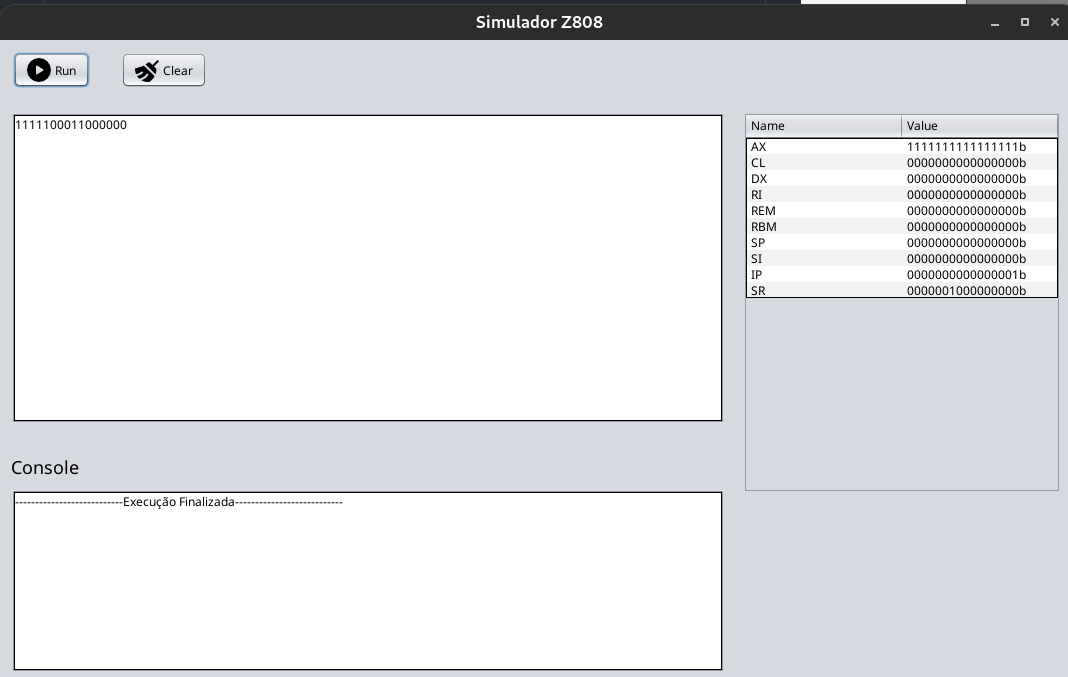
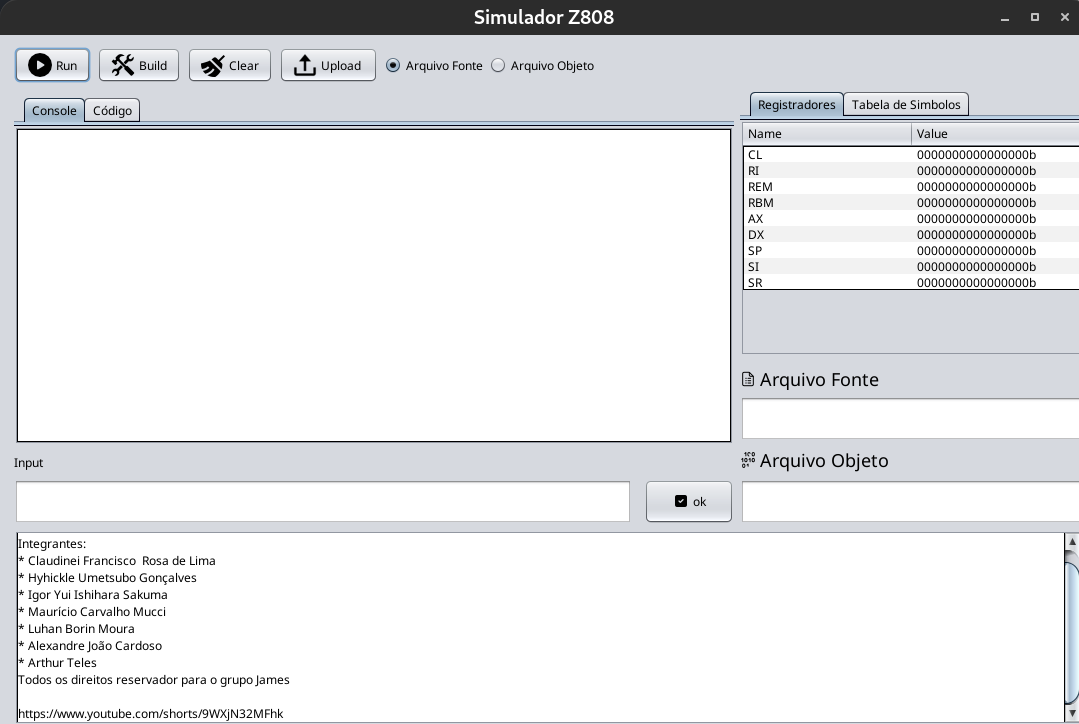
update: README

Changed region(s): [[0.0, 0.0, 1.0, 1.0]]

diff --git a/README.md b/README.md
@@ -7,7 +7,7 @@
 * Para mais especificações sobre o trabalho, olhar a seguinte pasta: _Docs_
 * Integrantes: Alexandre Cardoso, Arthur Teles, Claudinei Lima, Igor Sakuma, Hyhickle Umetsubo, Luhan Moura, Mauricio Mucci
 * Apresentação em vídeo do checkpoint 1/4: https://www.youtube.com/watch?v=B0Xyzax42kE&feature=youtu.be
-* Apresentação em vídeo do checkpoint 2/4: -
+* Apresentação em vídeo do checkpoint 2/4: https://drive.google.com/file/d/1Cllt9SYG5J_Ogo-EpJJadJDsVfXgDuiw/view?usp=sharing
 * Apresentação em vídeo do checkpoint 3/4: -
 * Apresentação em vídeo do checkpoint 4/4: -
 
@@ -72,19 +72,32 @@ descrição.
 
 ![Interface](Docs/interface.png)
 
-* A interface gráfica possui 3 áreas principais: caixa de texto para instruções, caixa de texto para o console e 
-  uma tabela dos registradores.
-* As instruções são inseridas em:
+* A interface gráfica possui 6 áreas principais: 
+  1. Caixa de texto para código gerado;
+  2. Caixa de texto para o console; 
+  3. Caixa de texto para os arquivos anexados;
+  4. Tabela de registradores;
+  5. Tabela de símbolos.
 
-![Interface](Docs/instrucoes.png)
+* O código gerado pelo montador é exibido em:
 
-* Os erros ou exceções são exibidos em:
+![Interface](Docs/codigo.png)
+
+* As informações de sucesso, erros ou exceções são exibidos em:
 
 ![Interface](Docs/console.png)
+
+* OS arquivos anexados são exibidos em:
+
+![Interface](Docs/arquivos.png)
 
 * Os valores dos registradores são exibidos em:
 
 ![Interface](Docs/registradores.png)
+
+* Tabela de símbolos:
+
+![Interface](Docs/tabela_simbolos.png)
 
 #### Tecnologias Utilizadas 💻
 
